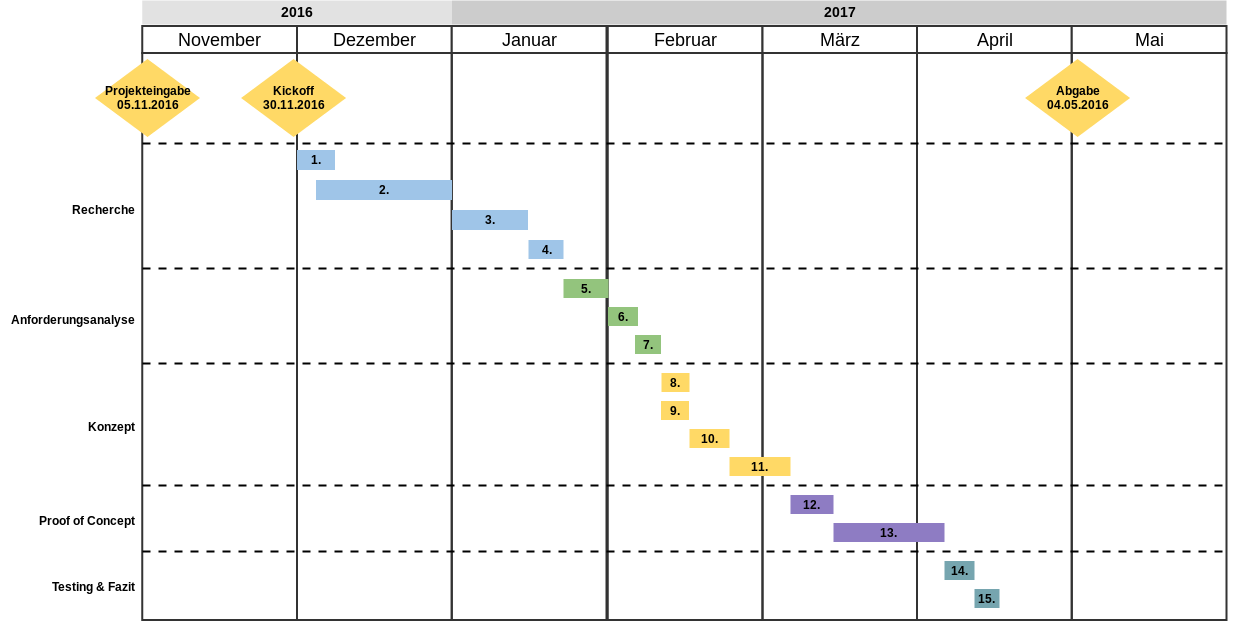
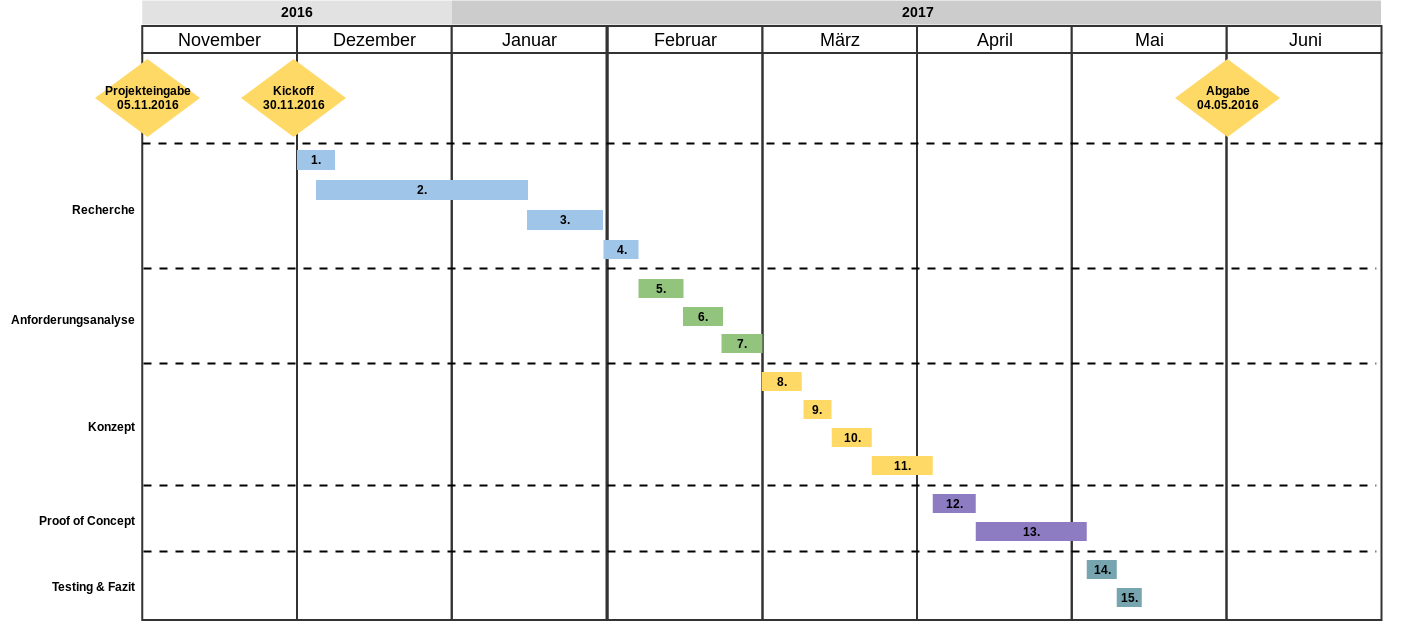
Final changes (hopefully)

diff --git a/doc/content/0-Abstract.tex b/doc/content/0-Abstract.tex
@@ -3,13 +3,13 @@
 
 \subsection*{Kurzfassung}
 % Ziel, Grundlagen, Vorgehensweise, Ergebnisse
-Das Ziel dieser Arbeit ist es, aus den Buchungsdaten der Interhome AG weiteres Wissen zu gewinnen. Dadurch soll es dem Marketing und dem Einkauf ermöglicht werden, fundiertere Entscheide zu treffen. Eine Buchung besteht aus verschiedenen Attributen wie zum Beispiel die Qualität (Anzahl Sterne), verschiedene Distanzangaben (Distanz bis zum Meer, Skilift, See, etc.), Binärwerte (Haustiere erlaubt?, Grill vorhanden?, Pool vorhanden?, etc.) und vielen mehr. Den Mitarbeiter von Interhome soll ermöglicht werden, dass sie herausfinden welche Kombinationen solcher Attribute häufig gebucht werden. Als mögliche Antwort kann ein zu entwickelndes Programm ausgeben, dass von Schweizern oft Objekte in Frankreich gebucht werden, die 500 Meter oder weniger von einem Skilift entfernt sind. Zusätzlich sollen die Daten eingeschränkt werden könne, so dass zum Beispiel nur Buchungen von Objekten in der Schweiz analysiert werden. Das Endprodukt soll eine Plattform sein, auf welcher die Interhome selbstständig Analysen auf der Datenbasis durchführen können um Wissen über die Buchungen zu generieren.
+Das Ziel dieser Arbeit ist es, aus den Buchungsdaten der Interhome AG weiteres Wissen zu gewinnen. Dadurch soll es dem Marketing und dem Einkauf ermöglicht werden, fundiertet Entscheidungen zu treffen. Eine Buchung besteht aus verschiedenen Attributen, wie zum Beispiel die Qualität (Anzahl Sterne), verschiedene Distanzangaben (Distanz bis zum Meer, Skilift, See, etc.), Binärwerte (Haustiere erlaubt?, Grill vorhanden?, Pool vorhanden?, etc.) und vielen mehr. Den Mitarbeitern der Interhome soll ermöglicht werden, dass sie herausfinden, welche Kombinationen solcher Attribute häufig gebucht werden. Als mögliche Antwort kann ein zu entwickelndes Programm zurückliefern, dass von Schweizern oft Objekte in Frankreich gebucht werden, die 500 Meter oder weniger von einem Skilift entfernt sind. Zusätzlich sollen die Daten eingeschränkt werden können, so dass zum Beispiel nur Buchungen von Objekten in der Schweiz analysiert werden. Das Endprodukt soll eine Plattform sein, auf welcher die Interhome selbstständig Analysen auf der Datenbasis durchführen kann, um Wissen über die Buchungen zu generieren.
 
-Um solche Analysen zu ermöglichen werden in dieser Arbeit verschiedene Techniken des Data Mining vorgestellt und ihre Tauglichkeit für den Einsatz auf den Interhome Daten bewertet. Für die Häufigkeitsanalyse der Attribute wird der Apriori Algorithmus des Association rule learning verwendet. Zusätzlich wird überprüft, ob die Resultate durch den Einsatz von zwei Clustering Algorithmen, k-prototype und DBSCAN, verbessert werden können. Zuerst werden Hypothesen über die Buchungen aufgestellt, die durch die Arbeit entweder bestätigt, oder widerlegt werden sollen. Daraus werden die funktionalen und nicht funktionalen Anforderungen abgeleitet, die von der Umsetzung zu erfüllen sind. Anschliessen wird die Auswahl der oben genannten Algorithmen beschrieben sowie Testfälle für die Validierung der Resultate definiert.  
+Um solche Analysen zu ermöglichen, werden in dieser Arbeit verschiedene Techniken des Data Mining vorgestellt und ihre Tauglichkeit für den Einsatz auf den Interhome Daten bewertet. Für die Häufigkeitsanalyse der Attribute wird der Apriori Algorithmus des Association rule learning verwendet. Zusätzlich wird überprüft, ob die Resultate durch den Einsatz von zwei Clustering Algorithmen, k-prototype und DBSCAN, verbessert werden können. Zuerst werden Hypothesen über die Buchungen aufgestellt, die durch die Arbeit entweder bestätigt, oder widerlegt werden sollen. Daraus werden die funktionalen und nicht funktionalen Anforderungen abgeleitet, die von der Umsetzung zu erfüllen sind. Anschliessend wird die Auswahl der oben genannten Algorithmen beschrieben sowie Testfälle für die Validierung der Resultate definiert.  
 
-In der Umsetzung wird ein Weblösung entwickelt, welche von Interhome für die Analyse verwendet werden kann. Dazu werden zuerst die Daten vorbereitet. Stornierte Buchungen werden aussortiert, nummerische Werte normiert, zusätzliche Felder hinzugefügt und Diskretierungen durchgeführt. Anschliessend wir der Proof of Concept nach dem aktuellen Stand der Technik entwickelt. Massgeblich beeinflusst wurde die Umsetzung durch die Anforderungen aus dem Konzept. Jedoch auch durch die  Laufzeit der eingesetzten Algorithmen, da diese von einigen Sekunden bis zu mehreren Stunden dauern können. Um diese Problematik zu umgehen wurden verschiedene Datenzugriffe evaluiert, ein Caching eingesetzt und die Berechnung der Algorithmen in Hintergrundprozesse ausgelagert.
+In der Umsetzung wird eine Weblösung entwickelt, welche von Interhome für die Analyse verwendet werden kann. Dazu werden zuerst die Daten vorbereitet. Stornierte Buchungen werden aussortiert, numerische Werte normiert, zusätzliche Felder hinzugefügt und Diskretierungen durchgeführt. Anschliessend wird der Proof of Concept nach dem aktuellen Stand der Technik entwickelt. Massgeblich beeinflusst wurde die Umsetzung durch die Anforderungen aus dem Konzept. Jedoch auch durch die Laufzeit der eingesetzten Algorithmen, da diese von einigen Sekunden bis zu mehreren Stunden dauern können. Um diese Problematik zu umgehen, wurden verschiedene Datenzugriffe evaluiert, ein Caching eingesetzt und die Berechnung der Algorithmen in Hintergrundprozesse ausgelagert.
 
-Als Resultat werden die Testfälle aus dem Konzept ausgewertet sowie die Hypothesen aus der Einleitung besprochen. Es hat sich gezeigt, dass der Apriori Algorithmus gute Einblicke in die Datenbasis liefern kann. Einige Hypothesen mussten widerlegt werden, wodurch jedoch neue Erkenntnisse der Buchungsdaten gewonnen werden konnten. Der grösste Vorteil dieses Algorithmuses ist seine Geschwindigkeit. Eine Analyse über alle 111'442 Buchungen dauert knapp 10 Sekunden. Dies lädt dazu ein die Daten explorativ zu erforschen. Der Einsatz der Clustering Algorithmen hat sich jedoch nicht bewährt. Es wird vermutet, dass es keine deutlichen Gruppen gibt in den Stammdaten von Interhome. Obwohl dies natürlich ein Rückschlag darstellt, ist es trotzdem eine wichtige Erkenntnis welche durch diese Arbeit gewonnen werden konnte. 
+Als Resultat werden die Testfälle aus dem Konzept ausgewertet sowie die Hypothesen aus der Einleitung besprochen. Es hat sich gezeigt, dass der Apriori Algorithmus gute Einblicke in die Datenbasis liefern kann. Einige Hypothesen mussten widerlegt werden, wodurch jedoch neue Erkenntnisse der Buchungsdaten gewonnen werden konnten. Der grösste Vorteil dieses Algorithmuses ist seine Geschwindigkeit. Eine Analyse über alle 111'442 Buchungen dauert knapp 10 Sekunden. Dies lädt dazu ein die Daten explorativ zu erforschen. Der Einsatz der Clustering Algorithmen hat sich jedoch nicht bewährt. Es wird vermutet, dass es keine deutlichen Gruppen gibt in den Stammdaten von Interhome gibt. Obwohl dies natürlich einen Rückschlag darstellt, ist es trotzdem eine wichtige Erkenntnis, welche durch diese Arbeit gewonnen werden konnte. 
 %Der Einsatz des Apriori Algorithmus hat sich bewährt und
 
 %

diff --git a/doc/content/4-Konzept.tex b/doc/content/4-Konzept.tex
@@ -13,7 +13,7 @@ Ziel dieser Arbeit ist es Attribute von Objekten zu eruieren, die in einer Grupp
 
 \subsubsection{Association rule learning}
 \label{sec:konzept:disziplinauswahl:association}
-Mittels Association rule learning (siehe \cref{sec:recherche:dataminingtechniken:disziplinen:association} \nameref{sec:recherche:dataminingtechniken:disziplinen:association}) lassen sich aus allen selektierten Buchungen die Häufigkeiten von Attributkombinationen herausfinden. Dadurch können FA1, FA2, FA3 sowie FA4 erfüllt werden.
+Mittels Association rule learning (siehe \cref{sec:recherche:dataminingtechniken:disziplinen:association} \nameref{sec:recherche:dataminingtechniken:disziplinen:association}) lassen sich aus allen selektierten Buchungen die Häufigkeiten von Attributkombinationen herausfinden. Dadurch können FA1, FA2, FA3, FA4, FA5 sowie FA6 erfüllt werden.
 
 
 \subsubsection{Classification}
@@ -165,7 +165,7 @@ Nachdem alle Buchungen mit dem Status "`XX"' entfernt wurden enthält die Datenb
 \subsubsection{Datennormierung von numerischen Werten} 
 Die im \label{sec:recherche:datenvorbereitung:normierung} \cref{sec:konzept:anwendungderalgorithmen:distanzmessung} vorgestellte Distanzmessung arbeitet mit der euklidischen Distanz für numerische Werte. Wenn ein Attribut $A_1$ einer Buchung den Wert 1'000 hat und das einer anderen Buchung 300, so ergibt sich eine Distanz von 700. Betrachtet man ein anderes Attribut $A_2$, welches den Wert 1 hat, beziehungsweise 0.3, so ist die Distanz 0.7. Dadurch fällt $A_2$ in der gesamten Distanz zwischen den beiden Buchungen massiv weniger ins Gewicht, da es um einen Faktor 1'000 kleiner ist. Deshalb werden numerische Attribute genormt, damit alle in den gleichen Wertebereich liegen.
 
-In dieser Arbeit werden vier numerische Attribute verwendet.
+Eingeschränkt werden die Attribute im \cref{fig:recherche:attributeinschraenkung:2}. Normiert werden müssen nur die Werte aus den in \cref{fig:recherche:datenvorbereitung:5} vorgestellten Feldern. Die anderen werden im \cref{sec:recherche:datenvorbereitung:diskretierung} diskretiert, wodurch eine Normierung hinfällig wird. 
 \begin{table}[H] 
 	\caption{Numerische Attribute}
 	\centering
@@ -197,9 +197,9 @@ Folgende Felder werden benötigt, sind jedoch in der Datenbasis nicht vorhanden:
 \item Wetterdaten des Kunden zum Zeitpunkt der Buchung.
 \end{itemize}
 
-Der Wochenpreis wird aus dem Gesamtpreis der Buchung abgeleitet. Dieser ist für die gesamte Buchungsdauer für alle Passagiere gültig. Der Preis muss demnach durch die Anzahl Tage und Passagiere geteilt und mit "`7"' multipliziert werden.
+Der Wochenpreis wird aus dem Gesamtpreis der Buchung abgeleitet, welcher für die gesamte Buchungsdauer für alle Passagiere gültig ist. Der Gesamptpreis muss demnach durch die Anzahl Tage und Passagiere geteilt und mit "`7"' multipliziert werden, um den Wochenpreis zu erhalten.
 
-Zusätzlich müssen für die Wetterdaten die genaue Geolocation des Benutzers vorhanden sein. Im Datenstamm ist die Adresse des Kunden gespeichert, mit welcher die Geolocation ermittelt werden kann. Mittels dieser Geolocation kann das Wetter des Kunden ermittelt werden.
+Zusätzlich muss für die Anreicherung der Wetterdaten die genaue Geolocation des Benutzers vorhanden sein. Im Datenstamm ist die Adresse des Kunden gespeichert, mit welcher die Geolocation ermittelt werden kann. Mit Hilfe dieser Geolocation kann das Wetter des Kunden ausfindig gemacht werden.
 
 \subsubsection{Diskretierung von Distanzen und des Wochenpreises} 
 \label{sec:recherche:datenvorbereitung:diskretierung}
@@ -322,7 +322,7 @@ Der Datenbestand besteht aus 153 Attributen/Spalten. Aus folgenden Gründen soll
 	\end{tabular}
 \end{table}
 
-In Absprache mit Interhome wurde entschieden, dass in einem ersten Schritt jene Attribute verwendet werden sollen, welche auch direkt auf der Webseite dargestellt werden. Die zu verwendenden Spalten sind in der \cref{fig:recherche:attributeinschraenkung:2} aufgeführt. Das Feld "`NREF"' beinhaltet die Objektidentifikation. Dieses wird für die Attributanalyse nicht verwendet, hilft jedoch den Testern bei der Validierung der Resultate und sollte deshalb beim Einsehen des Datenbestandes mit angezeigt werden.
+In Absprache mit Interhome wurde entschieden, dass in einem ersten Schritt jene Attribute verwendet werden sollen, welche auch direkt auf der Webseite von Interhome dargestellt werden. Die zu verwendenden Spalten sind in der \cref{fig:recherche:attributeinschraenkung:2} aufgeführt. Das Feld "`NREF"' beinhaltet die Objektidentifikation. Dieses wird für die Attributanalyse nicht verwendet, hilft jedoch den Testern bei der Validierung der Resultate und sollte deshalb beim Einsehen des Datenbestandes mit angezeigt werden.
 
 \begin{table}[H] 
 	\caption{Zu verwendende Attribute}
@@ -1021,5 +1021,9 @@ Erwartetes Resultat vom k-prototype Algorithmus:
 	\label{fig:recherche:testcases:12:2}
 \end{longtable}
 
-\section{Programmiersprache}
-Als Programmiersprache für eine Weblösung gibt es diverse zur Auswahl. Eingesetzt werden soll \gls{php}, da die Abteilung, welche bei einem Erfolg des Projekts den Code übernehmen soll in dieser Sprache arbeitet.
+\section{Entscheid: Programm oder eigene Implementation}
+Im \cref{sec:recherche:programmevaluation} \nameref{sec:recherche:programmevaluation} wurden zwei Programme vorgestellt, die für diese Arbeit eingesetzt werden können, um die Analyse der Buchungsdaten durchzuführen. Entschieden wurde jedoch, eine eigene Software zu entwickeln. RapidMiner, sowie Weka unterstützen die im \cref{sec:recherche:algorithmen} vorgestellten Algorithmen, jedoch nur für numerische Attribute, wodurch FA6 (siehe \cref{fig:anforderungsanalyse:funktionaleanforderung:fa6} \nameref{fig:anforderungsanalyse:funktionaleanforderung:fa6}) nicht unterstützt wird.
+
+Umgesetzt werden soll eine Weblösung, welche ohne Installation von der Interhome eingesetzt werden kann. Dies wurde entschieden, da die Abteilung, welche bei einem Erfolg des Projektes den Code übernehmen soll in diesem Bereich tätig ist. Aus dem selben Grund wurde auch die Programmiersprache \gls{php} ausgewählt.
+
+Obwohl RapidMiner und Weka nicht für die Datenanalyse eingesetzt werden können, so eignen sie sich trotzdem für die Vorbereitung der Daten gemäss \cref{sec:recherche:datenvorbereitung}. Alle benötigten Operationen werden von beiden Programmen unterstützt. Verwendet wird RapidMiner, da die Oberfläche des Programms übersichtlicher ist. Bei einem Vergleich der beiden hat sich gezeigt, dass RapidMiner intuitiver zu bedienen ist und schneller Resultate erzeugt werden kann.

diff --git a/doc/content/6-Summary.tex b/doc/content/6-Summary.tex
@@ -1334,11 +1334,11 @@ Wie im \cref{sec:proofofconcept:fazit} \nameref{sec:proofofconcept:fazit} erläu
 
 
 \section{Nächste Schritte}
-Als nächstes wird der Proof of Concept der Interhome vorgestellt. Der Einkauf und das Marketing sollen das Programm ausgiebig einsetzen, wodurch hoffentlich wertvolles Feedback entsteht. Es ist zu erwarten dass sie weitere Attribute bei der Analyse benötigen. Wie zum Beispiel die Anzahl der reisenden Kindern.
+Als Nächstes wird der Proof of Concept der Interhome vorgestellt. Sie sind interessiert an dem Produkt und wollen es gerne ausprobieren. Der Einkauf und das Marketing sollen deshalb das Programm ausgiebig einsetzen, wodurch hoffentlich wertvolles Feedback entsteht. Es ist zu erwarten, dass sie weitere Attribute bei der Analyse benötigen. Wie zum Beispiel die Anzahl der reisenden Kinder.
 
-Im \cref{sec:recherche:datenvorbereitung:diskretierung} wurden die Distanzen und der Wochenpreis in fixe Wertebereiche diskretiert. Andere Möglichkeiten wurden erwähnt, jedoch nicht weiter untersucht. Dies ist kein Problem solange verschiedene Resultate vom Apriori Algorithmus verglichen werden. Wenn zum Beispiel analysiert wird wie viele Buchungen in Frankreich im Gegensatz zu der Schweiz nahe am Skilift sind, kann das Resultat miteinander verglichen werden. Beide Analysen verwenden die selbe Diskretisierungswerte. Wenn hingegen eine Analyse nur für Frankreich gemacht wird, sieht man dass 19.45\% aller Buchungen nahe am Skilift liegen. Hier hat die diskretierung einen Einfluss auf das Resultat, denn es macht ein Unterschied ob der Wertebereich von 0-499 oder 0-1'000 Meter gewählt wird. Es gibt verschiedene Techniken für das Diskretisieren, zum Beispiel "`equal-width"' oder "`equal-frequency"'\footcite{data_mining_concepts_and_techniques}. Dies könnte weiter untersucht werden.
+Im \cref{sec:recherche:datenvorbereitung:diskretierung} wurden die Distanzen und der Wochenpreis in fixe Wertebereiche diskretiert. Andere Möglichkeiten wurden erwähnt, jedoch nicht weiter untersucht. Dies ist kein Problem solange verschiedene Resultate vom Apriori Algorithmus verglichen werden. Wenn zum Beispiel analysiert wird, wie viele Buchungen in Frankreich im Gegensatz zu der Schweiz das Attribute "`nahe am Skilift"' besitzen, kann das Resultat miteinander verglichen werden. Beide Analysen verwenden die selbe Diskretierungswerte. Wenn hingegen eine Analyse nur für Frankreich gemacht wird, sieht man dass 19.45\% aller Buchungen nahe am Skilift liegen. Hier hat die Diskretierung einen Einfluss auf das Resultat, denn es macht einen Unterschied, ob der Wertebereich von 0-499, oder 0-1'000 Meter gewählt wird. Es gibt verschiedene Techniken für das Diskretieren, wie zum Beispiel "`equal-width"', oder "`equal-frequency"'\footcite{data_mining_concepts_and_techniques}. Dies könnte weiter untersucht werden.
 
-Die Diskretisierung ermöglicht es die numerischen Werte in der Apriori Analyse zu verwenden. Eine Distanz von 199 und 200 Metern sind beide "`close"', jedoch bei 499 und 500 Metern ist dies nicht der Fall. Da ist der erste Wert "`close"', der Zweite jedoch nicht. Dieses Verhalten ist nicht hilfreich beim Clustering. Deshalb empfiehlt es sich, die k-prototype- oder DBSCAN Algorithmen nochmals ohne die Diskretierung einzusetzen. Wohl möglich werden dadurch bessere Resultate produziert. 
+Die Diskretierung ermöglicht es die numerischen Werte in der Apriori Analyse zu verwenden. Die Distanz von 199, oder 200 Metern sind beide "`close"', jedoch bei 499 und 500 Metern ist dies nicht der Fall. Da ist der erste Wert "`close"', der Zweite jedoch nicht. Dieses Verhalten ist nicht hilfreich beim Clustering. Deshalb empfiehlt es sich die k-prototype-, oder DBSCAN Algorithmen nochmals ohne die Diskretierung einzusetzen. Wohlmöglich werden dadurch bessere Resultate produziert. 
 
 %Diskretiesierungsschritte \cref{sec:recherche:datenvorbereitung} nach Häufigkeitsanalyse.
 %Z.b. die Preise plotten -> man sieht ein peek bei CHF1000/Buchung. +/- 1/3 vom Peek sind die normalen Preise. Darunter Budget, darüber Luxury
@@ -1354,6 +1354,6 @@ Die Diskretisierung ermöglicht es die numerischen Werte in der Apriori Analyse 
 \section{Schlusswort}
 Die Apriori Analyse hat sich als hilfreiches Werkzeug für die Attributanalyse der Interhome Buchungsdaten herausgestellt, solange die korrekten Anfragen gestellt werden. Die Clustering Algorithmen konnten hingegen keinen Beitrag zum Ziel dieser Arbeit leisten. Trotzdem wurden durch ihren Einsatz wertvolle Einblicke und ein besseres Verständnis der Datenbasis gewonnen.
 
-Die Auswahl der Wertebereiche der Diskretierung wird noch hinterfragt und weitere Nachforschungen in diesem Bereich getätigt. Auch ein Clustering ohne diskretierung wird noch ins Auge gefasst.
+Die Auswahl der Wertebereiche der Diskretierung wird noch hinterfragt und weitere Nachforschungen in diesem Bereich getätigt. Auch ein Clustering ohne Diskretierung wird noch ins Auge gefasst.
 
-Das Programm kann für die Analyse mittels dem Apriori Algorithmus von Interhome verwendet werden. Für den produktiven Einsatz sollte jedoch die Beschreibung der möglichen Einstellungen im Programm noch verständlicher erläutert werden. 
+Das Programm kann für die Analyse mittels dem Apriori Algorithmus von der Interhome verwendet werden. Für den produktiven Einsatz sollte jedoch die Beschreibung der möglichen Einstellungen im Programm noch verständlicher erläutert werden. 

diff --git a/doc/content/1-WorkDefinition.tex b/doc/content/1-WorkDefinition.tex
@@ -16,7 +16,7 @@
 
 Die Interhome AG ist eine internationale Firma mit Büros in 10 Ländern. Sie vertreibt Ferienhäuser und -wohnungen (Objekte) auf einer Webseite welche in 26 Domains und 14 Sprachen aufgerufen werden kann. Darauf können Kunden Objekte suchen und buchen. Dazu muss der User eine Destination auswählen und kann daraufhin verschiedenen Objekte ansehen. Diese haben einen Namen, Bilder und diverse Attribute. Beispiele solcher Attribute sind, ob die Wohnung einen Fernseher besitzt, Tiere erlaubt sind, oder eine Sauna vorhanden ist.
 
-Die Buchungen werden in das \gls{irent} gespeichert. Die gesammelten Daten werden von einem Recommender System, welches von Interhome entwickelt wurde, analysiert. Weitere Untersuchungen der Daten finden im Moment nicht statt.
+Die Buchungen werden in das \gls{irent} gespeichert. Die gesammelten Daten werden von einem Recommender System, welches von Interhome entwickelt wurde, analysiert. Weitere Untersuchungen der Daten finden im Moment nicht statt. Der Interhome würde es helfen, wenn sie mehr Informationen über die Buchung zur Verfügung hätten. Entscheide werden im Moment noch oft nach dem Bauchgefühl gefällt. Fundierte Informationen über die Buchungen fehlen. Zum Beispiel würde es dem Marketing und dem Einkauf helfen, wüssten sie welche Objektattribute oft von Schweizern im Sommer gebucht werden. Gibt es verschiedene Kaufverhalten von Zürchern und Bernern? Wählen Familien andere Destinationen als Paare?
 
 \section{Organisationsstruktur}
 \label{sec:einleitung:ausgangslage:organisationsstruktur}
@@ -352,9 +352,9 @@ Dieses Kapitel beschreibt sämtliche Projektabgrenzungen, welche für dieses Pro
 wurden.
 
 \subsection{Zeitliche Abgrenzung}
-Für diese Arbeiten geltet die zeitliche Vorgabe der \gls{zhaw} von 6 Monaten mit einem Arbeitsaufwand von 360 Stunden.
+Für diese Arbeiten geltet die zeitliche Vorgabe der \gls{zhaw} von 7 Monaten mit einem Arbeitsaufwand von 360 Stunden.
 Der Start der Arbeit beginnt mit der Abnahme der Aufgabenstellung, welche am 04.11.2016 stattfand.
-Demnach endet die Arbeit am 04.05.2017.
+Demnach endet die Arbeit am 01.06.2017.
 
 \subsection{Sachliche Abgrenzung}
 Ziel der Arbeit ist es, eine Plattform zu schaffen, auf welcher die Buchungsdaten von Interhome exploriert werden können. Dazu müssen die Daten aus dem Irent extrahiert und mit Techniken des Data Mining analysiert werden. Schlussendlich wird das Resultat bewertet, sodass entschieden werden kann, ob es sich für einen produktiven Einsatz eignet.

diff --git a/doc/content/3-AnforderungenundAnalyse.tex b/doc/content/3-AnforderungenundAnalyse.tex
@@ -240,7 +240,7 @@ Nachfolgend sind die nicht funktionalen Anforderungen an das Programm spezifizie
 	\begin{tabular}{ | l | L{10cm} | } 
 		\hline 
 		\rowcolor{tableheadcolor}
-		\multicolumn{2}{|l|}{\bfseries ID: NFA2} \\ \hline 
+		\multicolumn{2}{|l|}{\bfseries ID: NFA1} \\ \hline 
 		Titel & Komplexität \\ \hline 
 		Beschreibung & Verwendet wird das Programm von Interhome Mitarbeitern ohne Vorwissen im Data Mining. Deshalb sollte die Bedingung möglichst einfach ausgelegt sein. \\ \hline 
 		Abhängigkeit & \\ \hline 
@@ -255,7 +255,7 @@ Nachfolgend sind die nicht funktionalen Anforderungen an das Programm spezifizie
 	\begin{tabular}{ | l | L{10cm} | } 
 		\hline 
 		\rowcolor{tableheadcolor}
-		\multicolumn{2}{|l|}{\bfseries ID: NFA3} \\ \hline 
+		\multicolumn{2}{|l|}{\bfseries ID: NFA2} \\ \hline 
 		Titel & Modularität \\ \hline 
 		Beschreibung & In Zukunft ist zu erwarten, dass das Programm um weitere Techniken des Data Mining und weitere Attribute in der Datenbasis erweitert werden kann. Deshalb sollte es modular aufgebaut werden, damit weitere Algorithmen und Attribute leicht hinzugefügt werden können. Zusätzlich sollte durch die Modularität die Verständlichkeit des Programms erhöht werden, so dass zukünftige Entwickler sich besser in die Umsetzung einarbeiten können. \\ \hline 
 		Abhängigkeit & \\ \hline 
@@ -270,7 +270,7 @@ Nachfolgend sind die nicht funktionalen Anforderungen an das Programm spezifizie
 	\begin{tabular}{ | l | L{10cm} | } 
 		\hline 
 		\rowcolor{tableheadcolor}
-		\multicolumn{2}{|l|}{\bfseries ID: NFA4} \\ \hline 
+		\multicolumn{2}{|l|}{\bfseries ID: NFA3} \\ \hline 
 		Titel & Erweiterbarkeit der Daten \\ \hline 
 		Beschreibung & Um die Aktualität der Informationen zu gewährleisten, soll der Datenbestand in Zukunft leicht erweitert werden können. \\ \hline 
 		Abhängigkeit & \\ \hline 
@@ -285,7 +285,7 @@ Nachfolgend sind die nicht funktionalen Anforderungen an das Programm spezifizie
 	\begin{tabular}{ | l | L{10cm} | } 
 		\hline 
 		\rowcolor{tableheadcolor}
-		\multicolumn{2}{|l|}{\bfseries ID: NFA5} \\ \hline 
+		\multicolumn{2}{|l|}{\bfseries ID: NFA4} \\ \hline 
 		Titel & Kosten \\ \hline 
 		Beschreibung & Falls ein bestehendes Programm eingesetzt wird, sollen folgende Kostenfaktoren beachtet werden: 
 		\begin{itemize}

diff --git a/doc/content/2-Recherche.tex b/doc/content/2-Recherche.tex
@@ -95,7 +95,7 @@ In \cref{fig:recherche:dataminingtechniken:disziplinen:clusteranalysis} sind Pun
 	\label{fig:recherche:dataminingtechniken:disziplinen:clusteranalysis}
 \end{figure}
 
-Eingesetzt wird die Clusteranalyse zum Beispiel für die Erkennung von Kundengruppen, oder zur  Zusammenfassung und Vergleich gleichartiger Produkte\footcite{einsatzgebiet_clusteranalyse}.
+Eingesetzt wird die Clusteranalyse zum Beispiel für die Erkennung von Kundengruppen, oder zur  Zusammenfassung und Vergleich gleichartiger Produkte\footcite{cluster_analysis_for_segmentation_2017-05-29}.
 
 
 \subsection{Collaborative Filtering}
@@ -369,9 +369,10 @@ Zum Beispiel wird im Bericht "`An Apriori-based Algorithm for Mining Frequent Su
 
 \section{Programmevaluation}
 \label{sec:recherche:programmevaluation}
-Auf dem Markt gibt es diverse Data Mining Programme von welchen hier einige vorgestellt werden.
+In diesem Abschnitt werden Programme vorgestellt, welche für die Analyse der Interhome Buchungsdaten verwendet werden können. 
+Zwingend notwendig ist es, dass das Programm gratis ist sowie unter den Betriebsystemen Windows sowie Linux lauffähig ist. Zusätzlich müssen die vorgestellten Algorithmen aus \cref{sec:recherche:algorithmen} unterstützt werden.
+Es wurden zwei oft verwendete Programme aus diesem Bereich ausgewählt, RapidMiner und Weka\footcite{Six_of_the_Best_Open_Source_Data_Mining_Tools_-_The_New_Stack_2017-05-29}.
 
-Zwingend notwendig ist es, dass das Programm gratis ist sowie unter den Betriebsystemen Windows sowie Linux lauffähig ist. 
 
 %http://thenewstack.io/six-of-the-best-open-source-data-mining-tools/
 
